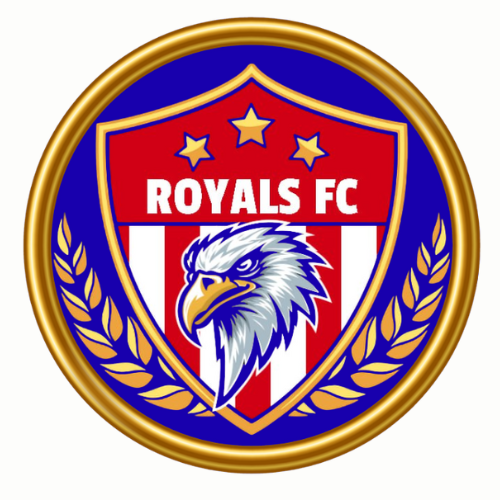
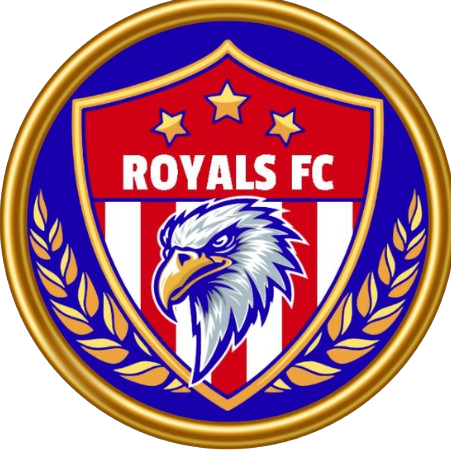
Initial commit

diff --git a/teamsjr/style.css b/teamsjr/style.css
@@ -52,9 +52,6 @@ a:hover {
   /* margin-bottom: 20px; */
   /* width: 30%; */
 }
-.club-header img{
-  background: #ffffff;
-}
 .just h1 {
   padding: 0;
   font-size: 25px;
@@ -374,7 +371,7 @@ a:hover {
     height:36px;
     /* border-radius:6px; */
     flex-shrink:0;
-    background: #fff;
+    /* background: #fff; */
     display:inline-flex;
     align-items:center;
     justify-content:center;

diff --git a/teams/style.css b/teams/style.css
@@ -52,9 +52,6 @@ a:hover {
   /* margin-bottom: 20px; */
   /* width: 30; */
 }
-.club-header img {
-  background: #fff;
-}
 .just h1 {
   padding: 0;
   font-size: 25px;
@@ -374,7 +371,7 @@ a:hover {
     height:36px;
     /* border-radius:6px; */
     flex-shrink:0;
-    background:#fff;
+    /* background:#fff; */
     display:inline-flex;
     align-items:center;
     justify-content:center;

diff --git a/standingsjr/style.css b/standingsjr/style.css
@@ -311,14 +311,11 @@ html,body {
     height:36px;
     /* border-radius:6px; */
     flex-shrink:0;
-    background:#fff;
+    /* background:#fff; */
     display:inline-flex;
     align-items:center;
     justify-content:center;
     overflow:hidden;
-}
-.bang {
-  background: #fff;
 }
 .crest img {
     width:100%;

diff --git a/standings/style.css b/standings/style.css
@@ -311,7 +311,7 @@ html,body {
     height:36px;
     /* border-radius:6px; */
     flex-shrink:0;
-    background:#0b2330;
+    /* background:#0b2330; */
     display:inline-flex;
     align-items:center;
     justify-content:center;
